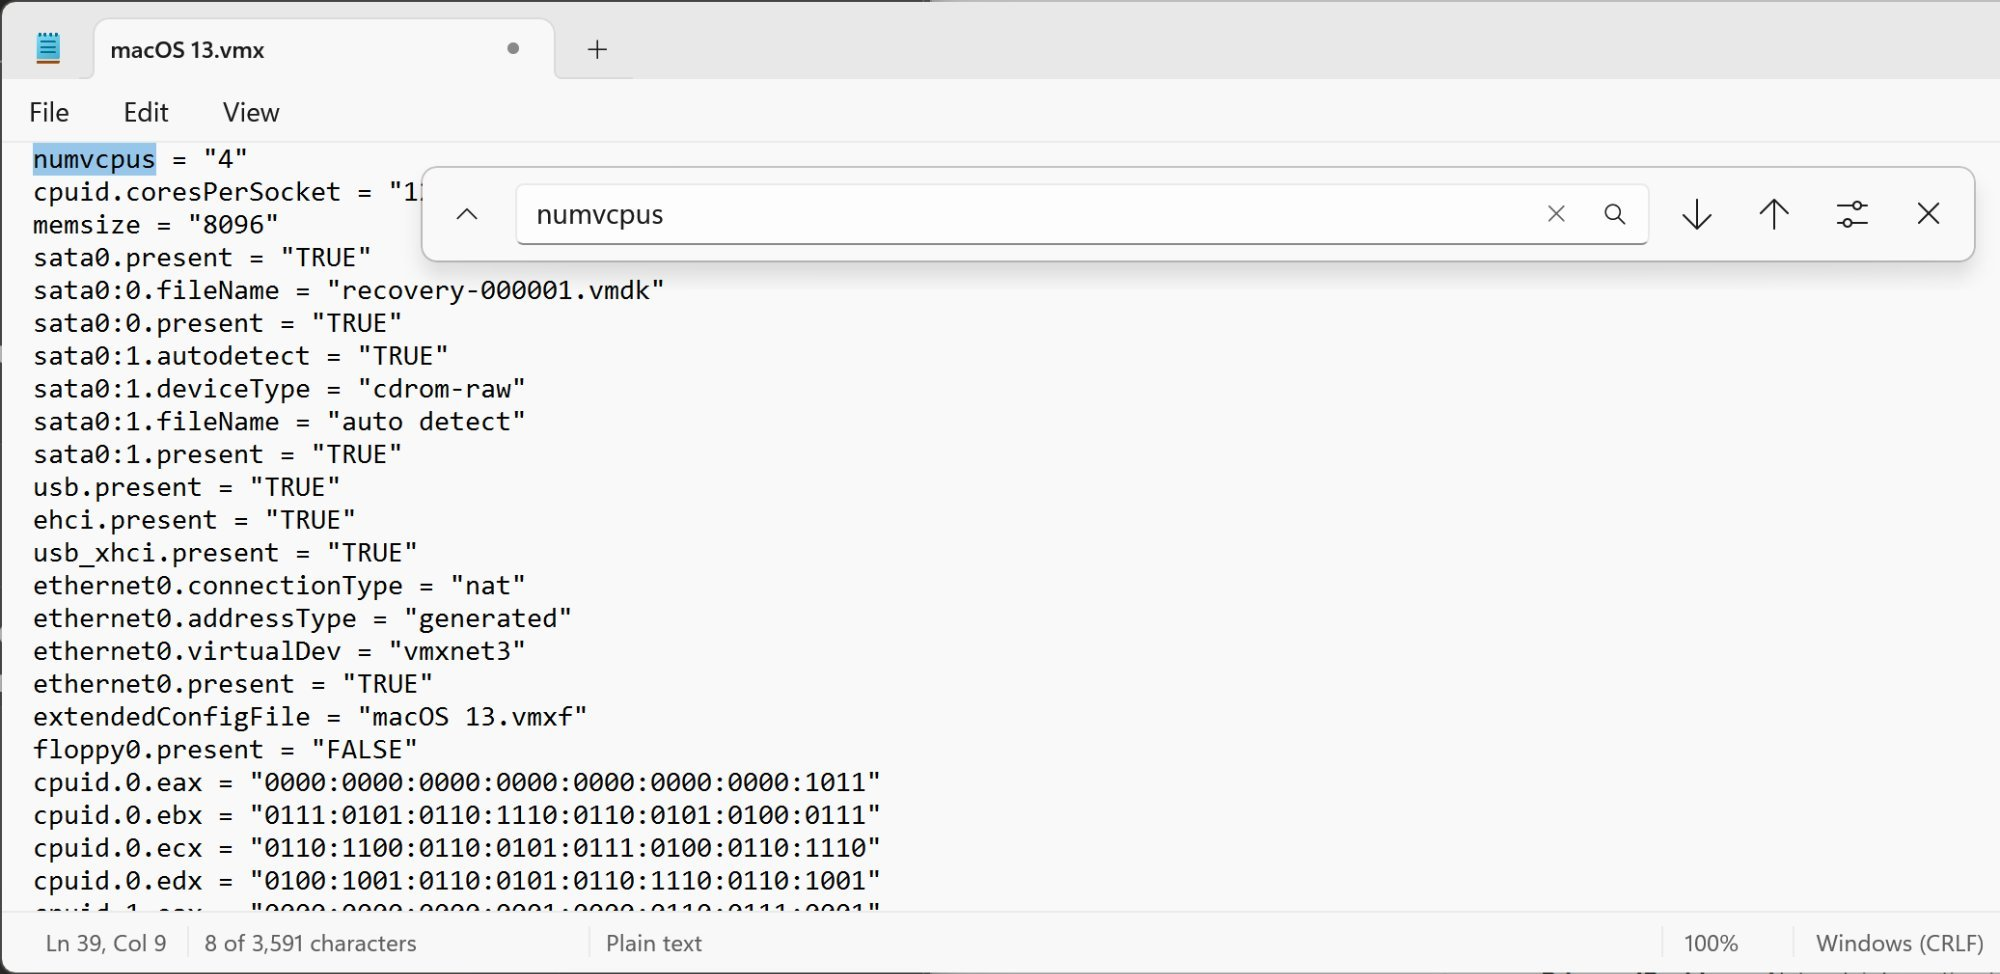
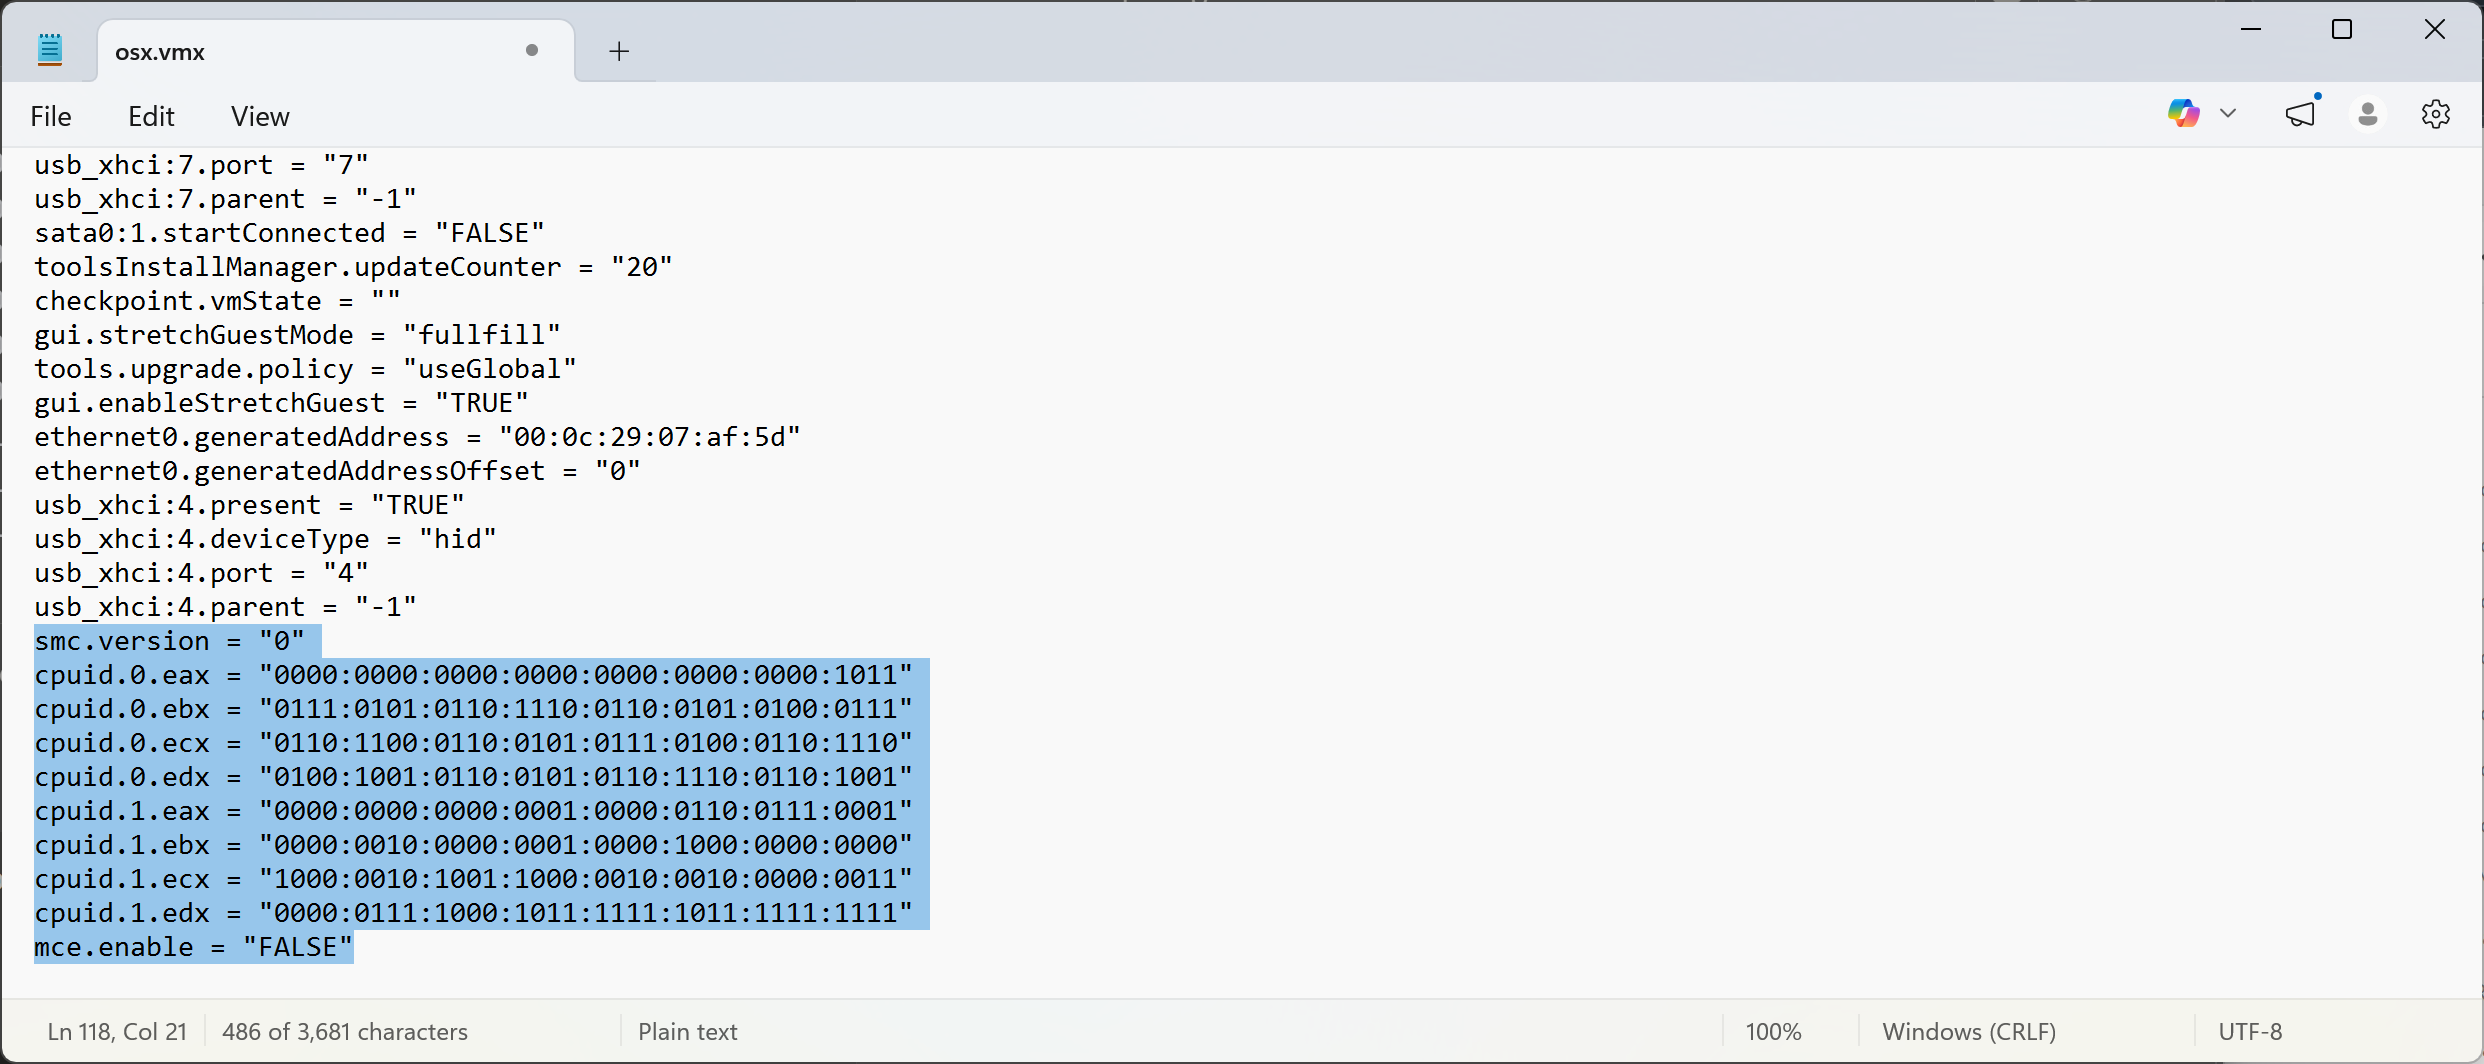
Update screenshots

diff --git a/README.md b/README.md
@@ -1,6 +1,6 @@
 # 🍎 macOS in VMware Workstation Pro on Windows (AMD CPU) — A Survivor's Guide
 
-> **TL;DR:** Yes, you can run macOS on VMware on an AMD system. No, it won't be easy.  
+> **TL;DR:** Yes, you can run macOS on VMware on an AMD system. No, it won't be easy.
 > This guide documents what actually worked — including the failures — so you don't have to spend your weekend on it.
 
 ![macOS Monterey 12.7.6 running in VMware on an AMD Windows host](images/preview__3_.webp)
@@ -373,12 +373,6 @@ cpuid.0.ebx = "0111:0101:0110:1110:0110:0101:0100:0111"
 cpuid.0.ecx = "0110:1100:0110:0101:0111:0100:0110:1110"
 cpuid.0.edx = "0100:1001:0110:0101:0110:1110:0110:1001"
 
-# Spoofs Intel Core i7 (Ivy Bridge) family/model/stepping and feature flags
-cpuid.1.eax = "0000:0000:0000:0001:0000:0110:0111:0001"
-cpuid.1.ebx = "0000:0010:0000:0001:0000:1000:0000:0000"
-cpuid.1.ecx = "1000:0010:1001:1000:0010:0010:0000:0011"
-cpuid.1.edx = "0000:0111:1000:1011:1111:1011:1111:1111"
-
 # Prevents AMD-specific MCE behavior from triggering spurious kernel panics
 mce.enable = "FALSE"
 
@@ -386,11 +380,19 @@ mce.enable = "FALSE"
 ulm.disableMitigations = "TRUE"
 ```
 
+For Intel you can use these CPUIDs:
+
+```ini
+# Spoofs Intel Core i7 (Ivy Bridge) family/model/stepping and feature flags
+cpuid.1.eax = "0000:0000:0000:0001:0000:0110:0111:0001"
+cpuid.1.ebx = "0000:0010:0000:0001:0000:1000:0000:0000"
+cpuid.1.ecx = "1000:0010:1001:1000:0010:0010:0000:0011"
+cpuid.1.edx = "0000:0111:1000:1011:1111:1011:1111:1111"
+```
+
 You can verify the file looks right by checking the bottom section in your editor. Here's how the actual working `.vmx` looks, showing `numvcpus`, the CPUID block, and the final lines:
 
 ![VMX file in Notepad — numvcpus=4 and CPUID lines visible with search highlighting](images/1775450064997_21_vmx_numvcpus_4.png)
-
-![VMX file bottom — ulm.disableMitigations=TRUE and mce.enable=FALSE confirmed at end of file](images/1775450064997_22_vmx_mce_enable_false.png)
 
 ### What each setting does
 
@@ -707,74 +709,6 @@ After setup you'll have a proper macOS login screen with your local account:
 - [QEMU for Windows](https://qemu.weilnetz.de/w64/) — disk image conversion tool
 - [Original guide this was adapted from](https://bluebubbles.app/docs/server/advanced/macos-virtualization/running-a-macos-vm/deploying-macos-in-vmware-on-windows-full-guide) — bluebubbles-docs by BlueBubbles
 - [AMD OSX community](https://amd-osx.com/) — community knowledge for AMD macOS
-
----
-
-## Images folder structure
-
-Place all screenshots in an `images/` folder next to this `README.md`:
-
-```
-your-repo/
-├── README.md
-└── images/
-    ├── preview__3_.webp              ← hero: Monterey desktop
-    ├── preview__4_.webp              ← Monterey installer loading
-    ├── preview__5_.webp              ← Monterey language selection
-    ├── preview__1_.webp              ← Apple logo "29 minutes remaining"
-    ├── preview__2_.webp              ← Setup Assistant country selection
-    ├── preview.webp                  ← Monterey disk selection (osx)
-    ├── Screenshot_2026-04-05_214117.png   ← login screen
-    ├── Screenshot_2026-04-05_214224.png   ← About This Mac 12.7.6
-    ├── 01_ventura_language_selection.png
-    ├── 02_ventura_installing.png
-    ├── 03_troubleshoot_kernel_panic.png
-    ├── 04_vmx_cpuid_lines.png
-    ├── 05_troubleshoot_prohibited_symbol.png
-    ├── 06_side_channel_mitigations_dialog.png
-    ├── 07_sata_cdrom_dialog.png
-    ├── 08_disk_utility_select_drive.png
-    ├── 09_disk_utility_erase_complete.png
-    ├── 13_apple_logo_booting.png
-    ├── 16_disk_utility_first_aid.png
-    ├── 17_first_aid_running.png
-    ├── 18_first_aid_complete.png
-    ├── 19_bless_command_terminal.png
-    ├── 20_bless_command_success.png
-    ├── 41_wizard_install_os_later.png
-    ├── 42_wizard_select_macos12.png
-    ├── 43_wizard_name_macos12.png
-    ├── 44_wizard_1_processor_4_cores.png
-    ├── 45_wizard_memory_8gb.png
-    ├── 46_wizard_nat_networking.png
-    ├── 47_wizard_use_existing_disk.png
-    ├── 48_wizard_browse_recovery_vmdk.png
-    ├── 49_wizard_keep_existing_format.png
-    ├── 50_wizard_vm_summary.png
-    ├── 51_macos12_vm_created.png
-    ├── 52_add_hardware_hard_disk.png
-    ├── 53_add_disk_create_new.png
-    ├── 54_add_disk_80gb_capacity.png
-    ├── 1775450064997_21_vmx_numvcpus_4.png
-    ├── 1775450064997_22_vmx_mce_enable_false.png
-    ├── 1775450064997_23_monterey_opencore_guide.png
-    ├── 1775450064997_24_monterey_macrecovery_command.png
-    ├── 1775450064997_40_wizard_hardware_compatibility.png
-    ├── 1775450064998_25_monterey_downloading.png
-    ├── 1775450064998_27_basesystem_dmg_in_documents.png
-    ├── 1775450064998_28_qemu_install_components.png
-    ├── 1775450064998_29_qemu_install_complete.png
-    ├── 1775450064999_30_create_vmdk_guide_step.png
-    ├── 1775450064999_31_qemu_convert_command.png
-    ├── 1775450064999_32_qemu_convert_success.png
-    ├── 1775450064999_33_recovery_vmdk_created.png
-    ├── 1775450064999_34_vmware_version_info.png
-    ├── 1775450064999_35_auto_unlocker_guide.png
-    ├── 1775450065000_36_vmware_home_screen.png
-    ├── 1775450065000_37_auto_unlocker_gui.png
-    ├── 1775450065000_38_vmware_create_new_vm.png
-    └── 1775450065000_39_wizard_custom_config.png
-```
 
 ---
 